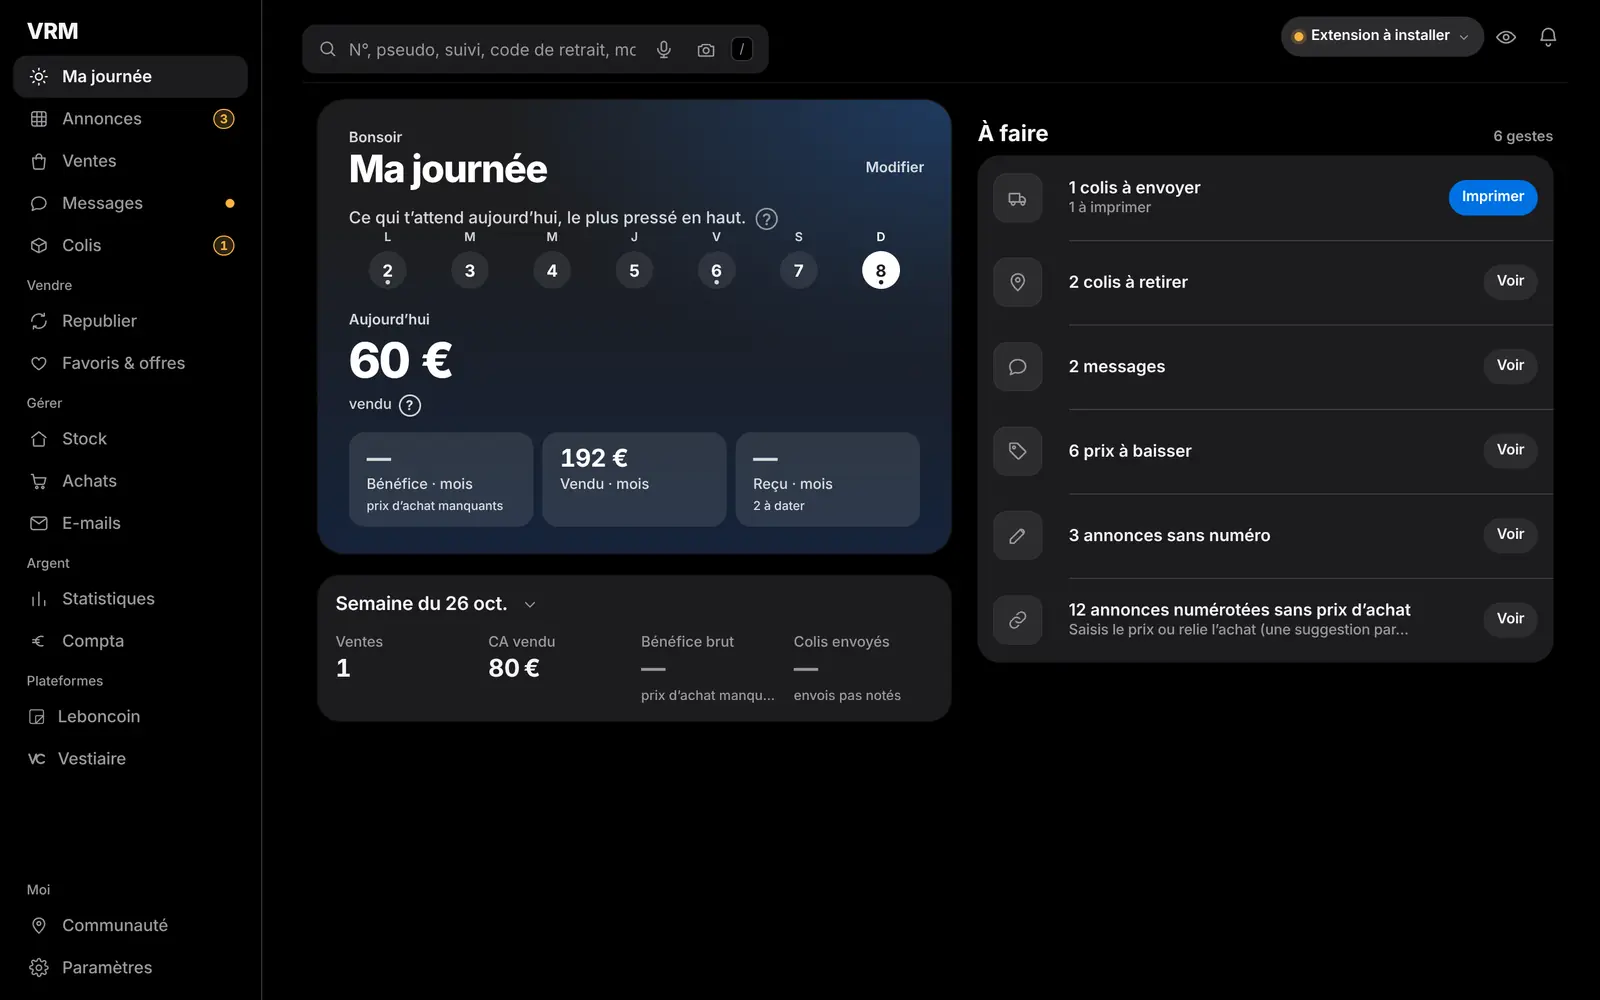
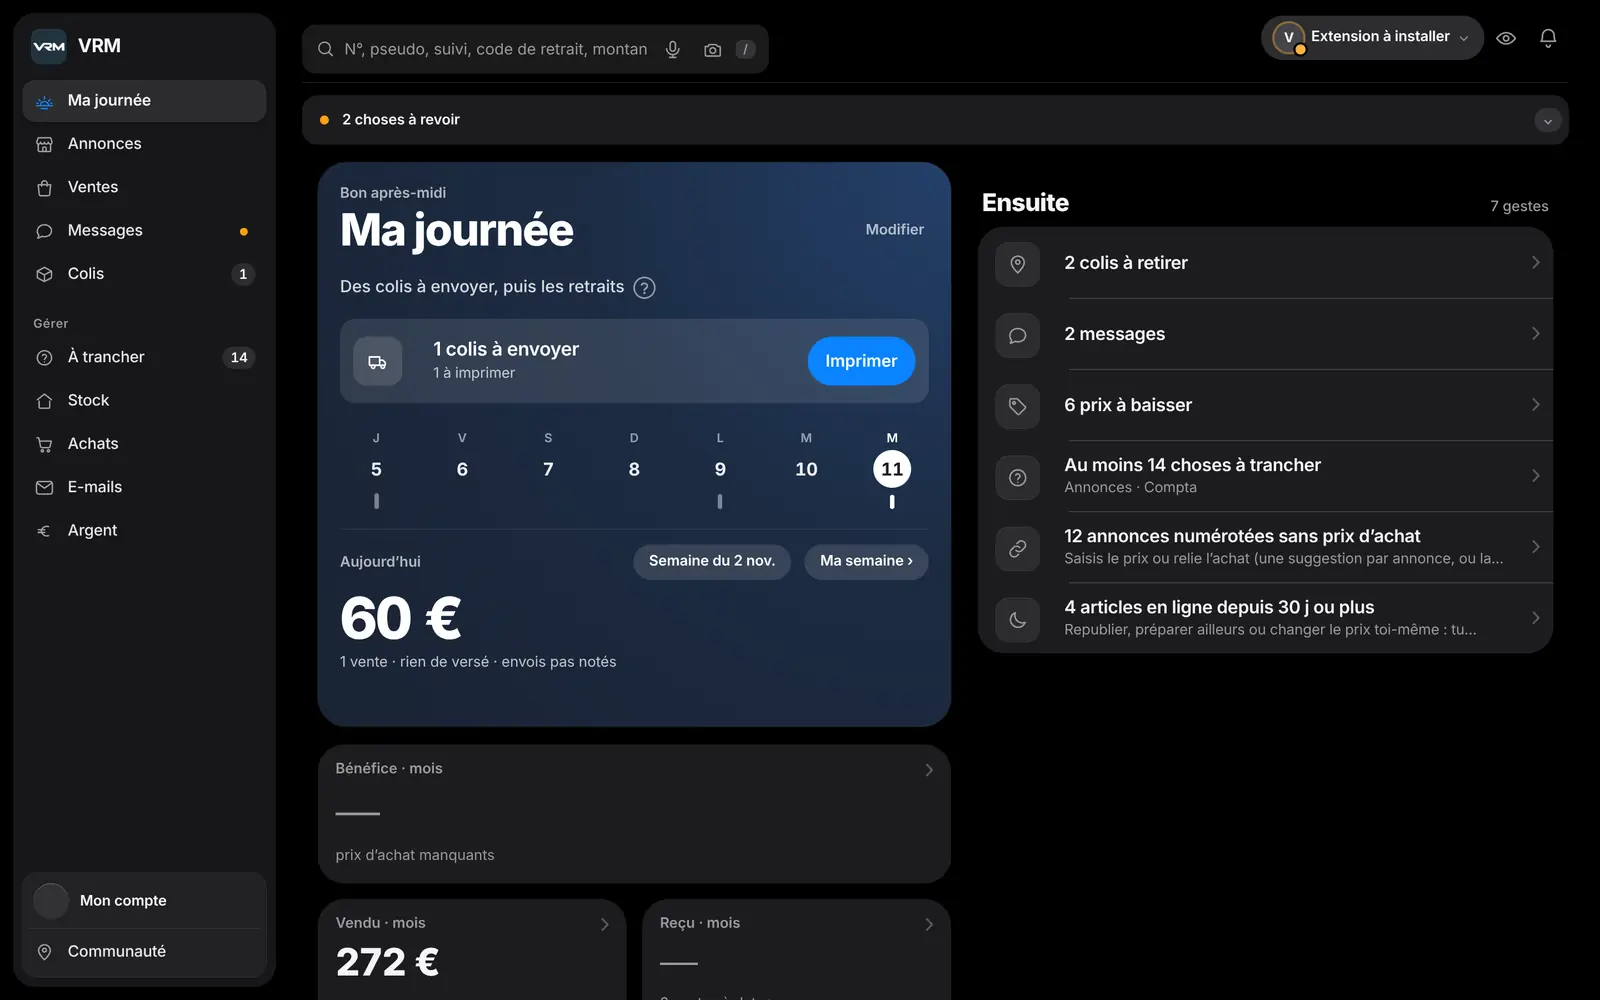
Accueil public : captures en catalogue varié (mode exemple), écran Messages, image de partage 1200×630
Claude-Session: https://claude.ai/code/session_01L9qoLLhYCa3AmxbfTncTYZ

diff --git a/src/exempleDonnees.js b/src/exempleDonnees.js
@@ -17,37 +17,51 @@ export const EMAIL_EXEMPLE = 'exemple@vrm.invalid';
 // ne doivent JAMAIS apparaître dans la vraie base ni dans le stockage réel.
 export const TRACES_EXEMPLE = ['vendeuse_a', 'vendeuse_b', 'acheteuse_lyon', EMAIL_EXEMPLE];
 
-export function jeuExemple(now = Date.now()) {
+// (11 nov., page d'accueil publique) `varie` : un catalogue MÉLANGÉ (vêtements,
+// sacs, chaussures, accessoires) pour les captures de vrm.center, qui parlent à
+// tout revendeur, pas seulement à celui de baskets. Demandé par
+// scripts/accueil-captures.cjs (`vrm_exemple_catalogue` = 'varie' dans la
+// session de la page) ; sans lui, le jeu est EXACTEMENT celui d'avant (les
+// bancs qui s'appuient dessus ne voient rien changer). Tout reste inventé.
+const CATALOGUE_VARIE = [
+  ['Veste en jean bleue', "Levi's", 'M'], ['Air Max 90 blanche', 'Nike', '42'], ['Sac cabas en cuir camel', 'Sézane', ''],
+  ['Pull en laine écru', 'Maje', 'S'], ['Robe longue fleurie', 'Sandro', '38'], ['Manteau en laine gris', 'COS', 'L'],
+  ['Samba OG noire', 'Adidas', '39'], ['Jean droit brut', 'A.P.C.', 'W32'], ['Doudoune sans manches noire', 'Uniqlo', 'M'],
+  ['Lunettes de soleil écaille', 'Persol', ''], ['Chemise en lin blanche', 'Arket', 'L'], ['Bottines en cuir marron', 'Clarks', '40'],
+];
+const article = (i) => { const [m, b, t] = CATALOGUE_VARIE[i % CATALOGUE_VARIE.length]; return { titre: `${m}${t ? ` taille ${t}` : ''}`, marque: b, taille: t || 'Taille unique' }; };
+
+export function jeuExemple(now = Date.now(), { varie = false } = {}) {
   const iso = (j) => new Date(now - j * 86400000).toISOString();
   const ts = (j) => Math.floor((now - j * 86400000) / 1000);
   const MARQUES = ['Nike', 'Adidas', 'New Balance', 'Asics', 'Salomon'];
   const MODELES = ['Air Max 90 blanche', 'Samba OG noire', '550 crème', 'Gel-1130 argent', 'XT-6 grise', 'Dunk Low panda'];
-  const annonce = (i) => ({ id: 51000 + i, title: `${MARQUES[i % 5]} ${MODELES[i % 6]} taille ${38 + (i % 7)}`, price: { amount: String(45 + i * 5) + '.0', currency_code: 'EUR' }, is_closed: false, is_draft: false, is_hidden: false, photo: null, brand_title: MARQUES[i % 5], size_title: String(38 + (i % 7)), status: i % 3 ? 'Très bon état' : 'Bon état', view_count: 12 + i * 7, favourite_count: i % 4, created_at_ts: ts(1 + i * 3) });
+  const annonce = (i) => ({ id: 51000 + i, title: varie ? article(i).titre : `${MARQUES[i % 5]} ${MODELES[i % 6]} taille ${38 + (i % 7)}`, price: { amount: String(45 + i * 5) + '.0', currency_code: 'EUR' }, is_closed: false, is_draft: false, is_hidden: false, photo: null, brand_title: varie ? article(i).marque : MARQUES[i % 5], size_title: varie ? article(i).taille : String(38 + (i % 7)), status: i % 3 ? 'Très bon état' : 'Bon état', view_count: 12 + i * 7, favourite_count: i % 4, created_at_ts: ts(1 + i * 3) });
   const A1 = Array.from({ length: 8 }, (_, i) => annonce(i));
   const A2 = Array.from({ length: 4 }, (_, i) => annonce(10 + i));
-  const vente = (i, statut, tus, jours) => ({ transaction_id: 62000 + i, title: `${MARQUES[(i + 1) % 5]} ${MODELES[(i + 2) % 6]} taille ${40 + (i % 4)}`, price: { amount: String(60 + i * 4), currency_code: 'EUR' }, status: statut, transaction_user_status: tus, date: iso(jours), photo: null });
+  const vente = (i, statut, tus, jours) => ({ transaction_id: 62000 + i, title: varie ? article(i + 4).titre : `${MARQUES[(i + 1) % 5]} ${MODELES[(i + 2) % 6]} taille ${40 + (i % 4)}`, price: { amount: String(60 + i * 4), currency_code: 'EUR' }, status: statut, transaction_user_status: tus, date: iso(jours), photo: null });
   const V1 = [vente(0, 'Bordereau envoyé au vendeur', 'needs_action', 0.3), vente(1, "Colis en cours d'acheminement", 'waiting', 2), vente(2, 'Commande finalisée', 'completed', 6)];
   const V2 = [vente(5, 'Commande finalisée', 'completed', 9)];
   const RELAIS_ST = "La livraison n'a pas encore eu lieu - colis déposé en bureau de Poste ou point relais";
-  const achat = (i, statut, tus, jours) => ({ transaction_id: 73000 + i, conversation_id: 84000 + i, title: `${MARQUES[(i + 3) % 5]} ${MODELES[(i + 4) % 6]} taille ${41 + (i % 3)}`, price: { amount: String(35 + i * 6), currency_code: 'EUR' }, status: statut, transaction_user_status: tus, date: iso(jours), photo: null });
+  const achat = (i, statut, tus, jours) => ({ transaction_id: 73000 + i, conversation_id: 84000 + i, title: varie ? article(i + 8).titre : `${MARQUES[(i + 3) % 5]} ${MODELES[(i + 4) % 6]} taille ${41 + (i % 3)}`, price: { amount: String(35 + i * 6), currency_code: 'EUR' }, status: statut, transaction_user_status: tus, date: iso(jours), photo: null });
   const B1 = [achat(0, RELAIS_ST, 'needs_action', 4), achat(1, 'Le vendeur a expédié la commande', 'waiting', 2), achat(2, 'Le vendeur a expédié la commande', 'waiting', 1)];
   const conv = (id, login, desc, unread, h) => ({ id, unread, updated_at: iso(h / 24), description: desc, opposite_user: { id: 5000 + id, login } });
   const vu = { at: iso(0) };
   const lignes = [
-    { id: 'main', data: { vrm_bienvenue_vue: vu, vrm_visite_vue: vu, vinted_annonce_numeros: Object.fromEntries([...A1, ...A2].slice(0, 9).map((a, i) => [a.id, { numero: String(i + 1) }])) } },
+    { id: 'main', data: { vrm_bienvenue_vue: vu, vrm_visite_vue: vu, vinted_annonce_numeros: Object.fromEntries([...A1, ...A2].slice(0, varie ? 12 : 9).map((a, i) => [a.id, { numero: String(i + 1) }])) } },
     { id: 'harvest_111_listings', data: { capturedAt: iso(0.01), payload: { items: A1 } } },
     { id: 'harvest_222_listings', data: { capturedAt: iso(0.02), payload: { items: A2 } } },
     { id: 'harvest_111_orders_sold', data: { capturedAt: iso(0.01), payload: { my_orders: V1 } } },
     { id: 'harvest_222_orders_sold', data: { capturedAt: iso(0.02), payload: { my_orders: V2 } } },
     { id: 'harvest_111_orders_purchased', data: { capturedAt: iso(0.01), payload: { my_orders: B1 } } },
     { id: 'harvest_111_inbox', data: { capturedAt: iso(0.01), payload: { conversations: [conv(301, 'acheteuse_lyon', 'Vous feriez 50\u00a0€ ?', true, 3), conv(302, 'marc.b', 'Merci, bien reçu !', false, 30)] } } },
-    { id: 'harvest_222_inbox', data: { capturedAt: iso(0.02), payload: { conversations: [conv(401, 'sneaker_fan', 'Toujours disponible en 42 ?', true, 6)] } } },
+    { id: 'harvest_222_inbox', data: { capturedAt: iso(0.02), payload: { conversations: [varie ? conv(401, 'client_nantes', 'Toujours disponible en M ?', true, 6) : conv(401, 'sneaker_fan', 'Toujours disponible en 42 ?', true, 6)] } } },
     { id: 'email_bord_62000', data: { transaction: '62000', filename: 'bordereau-62000.pdf', pdfB64: 'JVBERi0x', modele: V1[0].title, account: 'vendeuse_a', receivedAt: iso(0.2), dateLimite: new Date(now + 3 * 86400000).toLocaleDateString('fr-FR') + ' 10 h 00', type: 'vinted' } },
     { id: 'panel_colis_relais', data: { 73000: { code: 'K48291', lieu: 'Le Fournil, 8 Rue de la Paix, 35000 Rennes, France', at: iso(0.5) } } },
     { id: 'email_track_mondialrelay_40817263', data: { carrier: 'mondialrelay', status: 'disponible', suivi: '40817263', code: '582913', lieu: 'Le Fournil\n8 Rue de la Paix\n35000 Rennes', subject: 'Votre colis est disponible', receivedAt: iso(1), arriveLe: iso(1), dateLimite: new Date(now + 5 * 86400000).toISOString() } },
     { id: 'harvest_111_billing', data: { capturedAt: iso(0.01), payload: { user_balance: { available_amount: { amount: '64.0' }, escrow_amount: { amount: '120.0' } } } } },
     { id: 'lbc_accounts', data: { accounts: { lbcA: { id: 'lbcA', name: 'Ma boutique', sessionAt: iso(1) } } } },
-    { id: 'lbc_listings', data: { items: { 3100000001: { id: '3100000001', ref: '2', customRef: 'VRM-2', subject: 'Adidas Samba OG noire T39', status: 'active', account: 'lbcA', seenAt: iso(0.5), price: 55 } } } },
+    { id: 'lbc_listings', data: { items: { 3100000001: { id: '3100000001', ref: '2', customRef: 'VRM-2', subject: varie ? 'Sac cabas en cuir camel' : 'Adidas Samba OG noire T39', status: 'active', account: 'lbcA', seenAt: iso(0.5), price: 55 } } } },
     { id: 'lbc_ventes', data: { ventes: {} } },
   ].map((l) => ({ ...l, owner: UID_EXEMPLE, updated_at: iso(0), created_at: iso(30) }));
   const comptes = [

diff --git a/src/modeExemple.js b/src/modeExemple.js
@@ -129,7 +129,9 @@ export function installerModeExemple(win = typeof window !== 'undefined' ? windo
   let ssReel = null, lsReel = null;
   try { ssReel = win.sessionStorage; lsReel = win.localStorage; } catch (_) { return false; }
   if (!demande(ssReel)) return false;
-  const jeu = jeuExemple(Date.now());
+  // (11 nov.) Les captures de la page d'accueil demandent un catalogue mélangé.
+  let varie = false; try { varie = ssReel.getItem('vrm_exemple_catalogue') === 'varie'; } catch (_) { varie = false; }
+  const jeu = jeuExemple(Date.now(), { varie });
   ETAT = { actif: true, ssReel, base: { lignes: jeu.lignes }, comptes: { lignes: jeu.comptes }, autres: {}, surPlace: 0, ecritures: 0, refusees: 0, coupes: 0 };
 
   // 1. LE STOCKAGE : en mémoire. La session de l'exemple n'existe que là.
